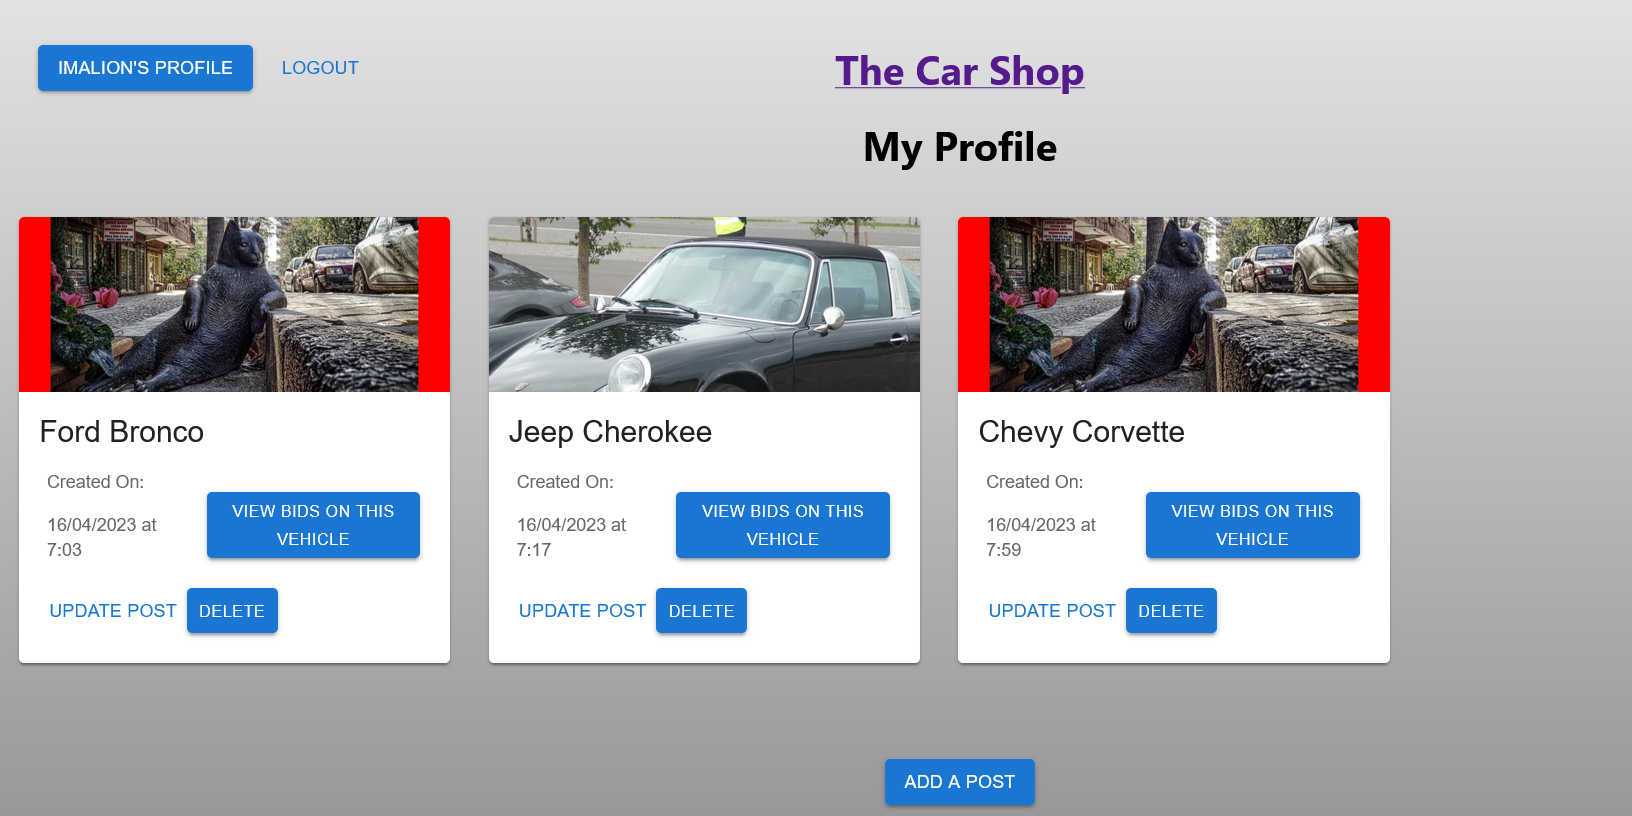
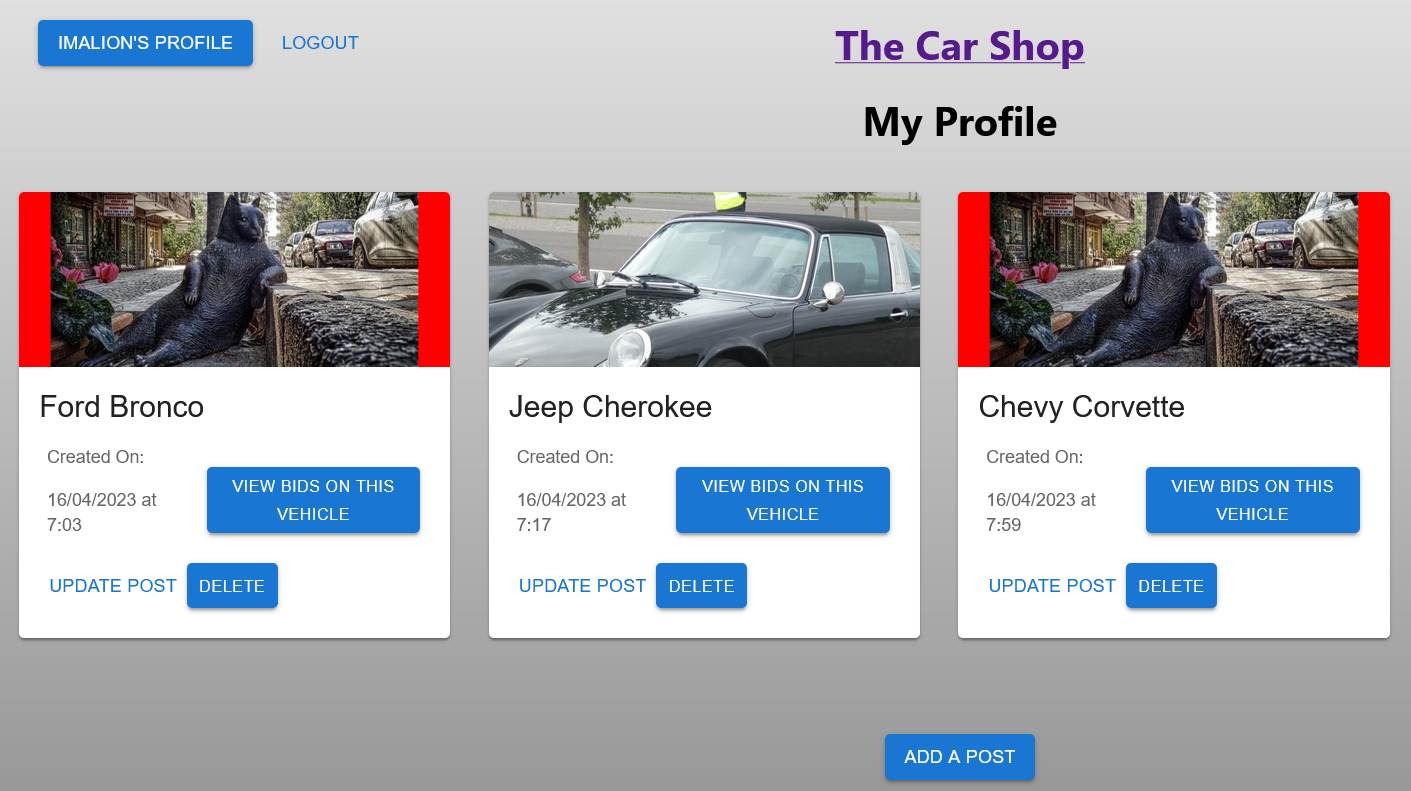
styling changes, new resume link

diff --git a/src/App.css b/src/App.css
@@ -38,7 +38,7 @@
 }
 
 * {
-  background-color: rgb(57, 112, 104);
+  background-color: rgb(93, 184, 153);
   color: rgb(49, 13, 49);
 }
 
@@ -79,8 +79,10 @@
   max-width: 90%;
   max-height: 25%;
   border: 3px solid rgb(49, 13, 49);
+  border-radius: 5%;
   margin: 1%;
   padding: 1%;
+  box-shadow: 5px 5px 3px rgb(0, 94, 44);
 }
 
 .project img {
@@ -151,7 +153,7 @@
 }
 
 .project p {
-  color: rgb(197, 107, 197);
+  color: rgb(125, 66, 125);
   display: flex;
   justify-content: center;
 }

diff --git a/src/components/Pages/Resume.js b/src/components/Pages/Resume.js
@@ -3,7 +3,7 @@ import React from 'react';
 function Resume() {
     return (
 <div>
-    <a className='resumelink' href='../../assets/Gibson-Berglund-Resume-PDF.pdf' download>Click here to download a copy of my resume</a>
+    <a className='resumelink' href='https://docs.google.com/document/d/1u4NL1CkakeYskCK3FQ1M3_MGEXl0VH6jr3AIgwtqLqQ/edit?usp=sharing'>Click here to view or download my resume</a>
 </div>
     );
 };
